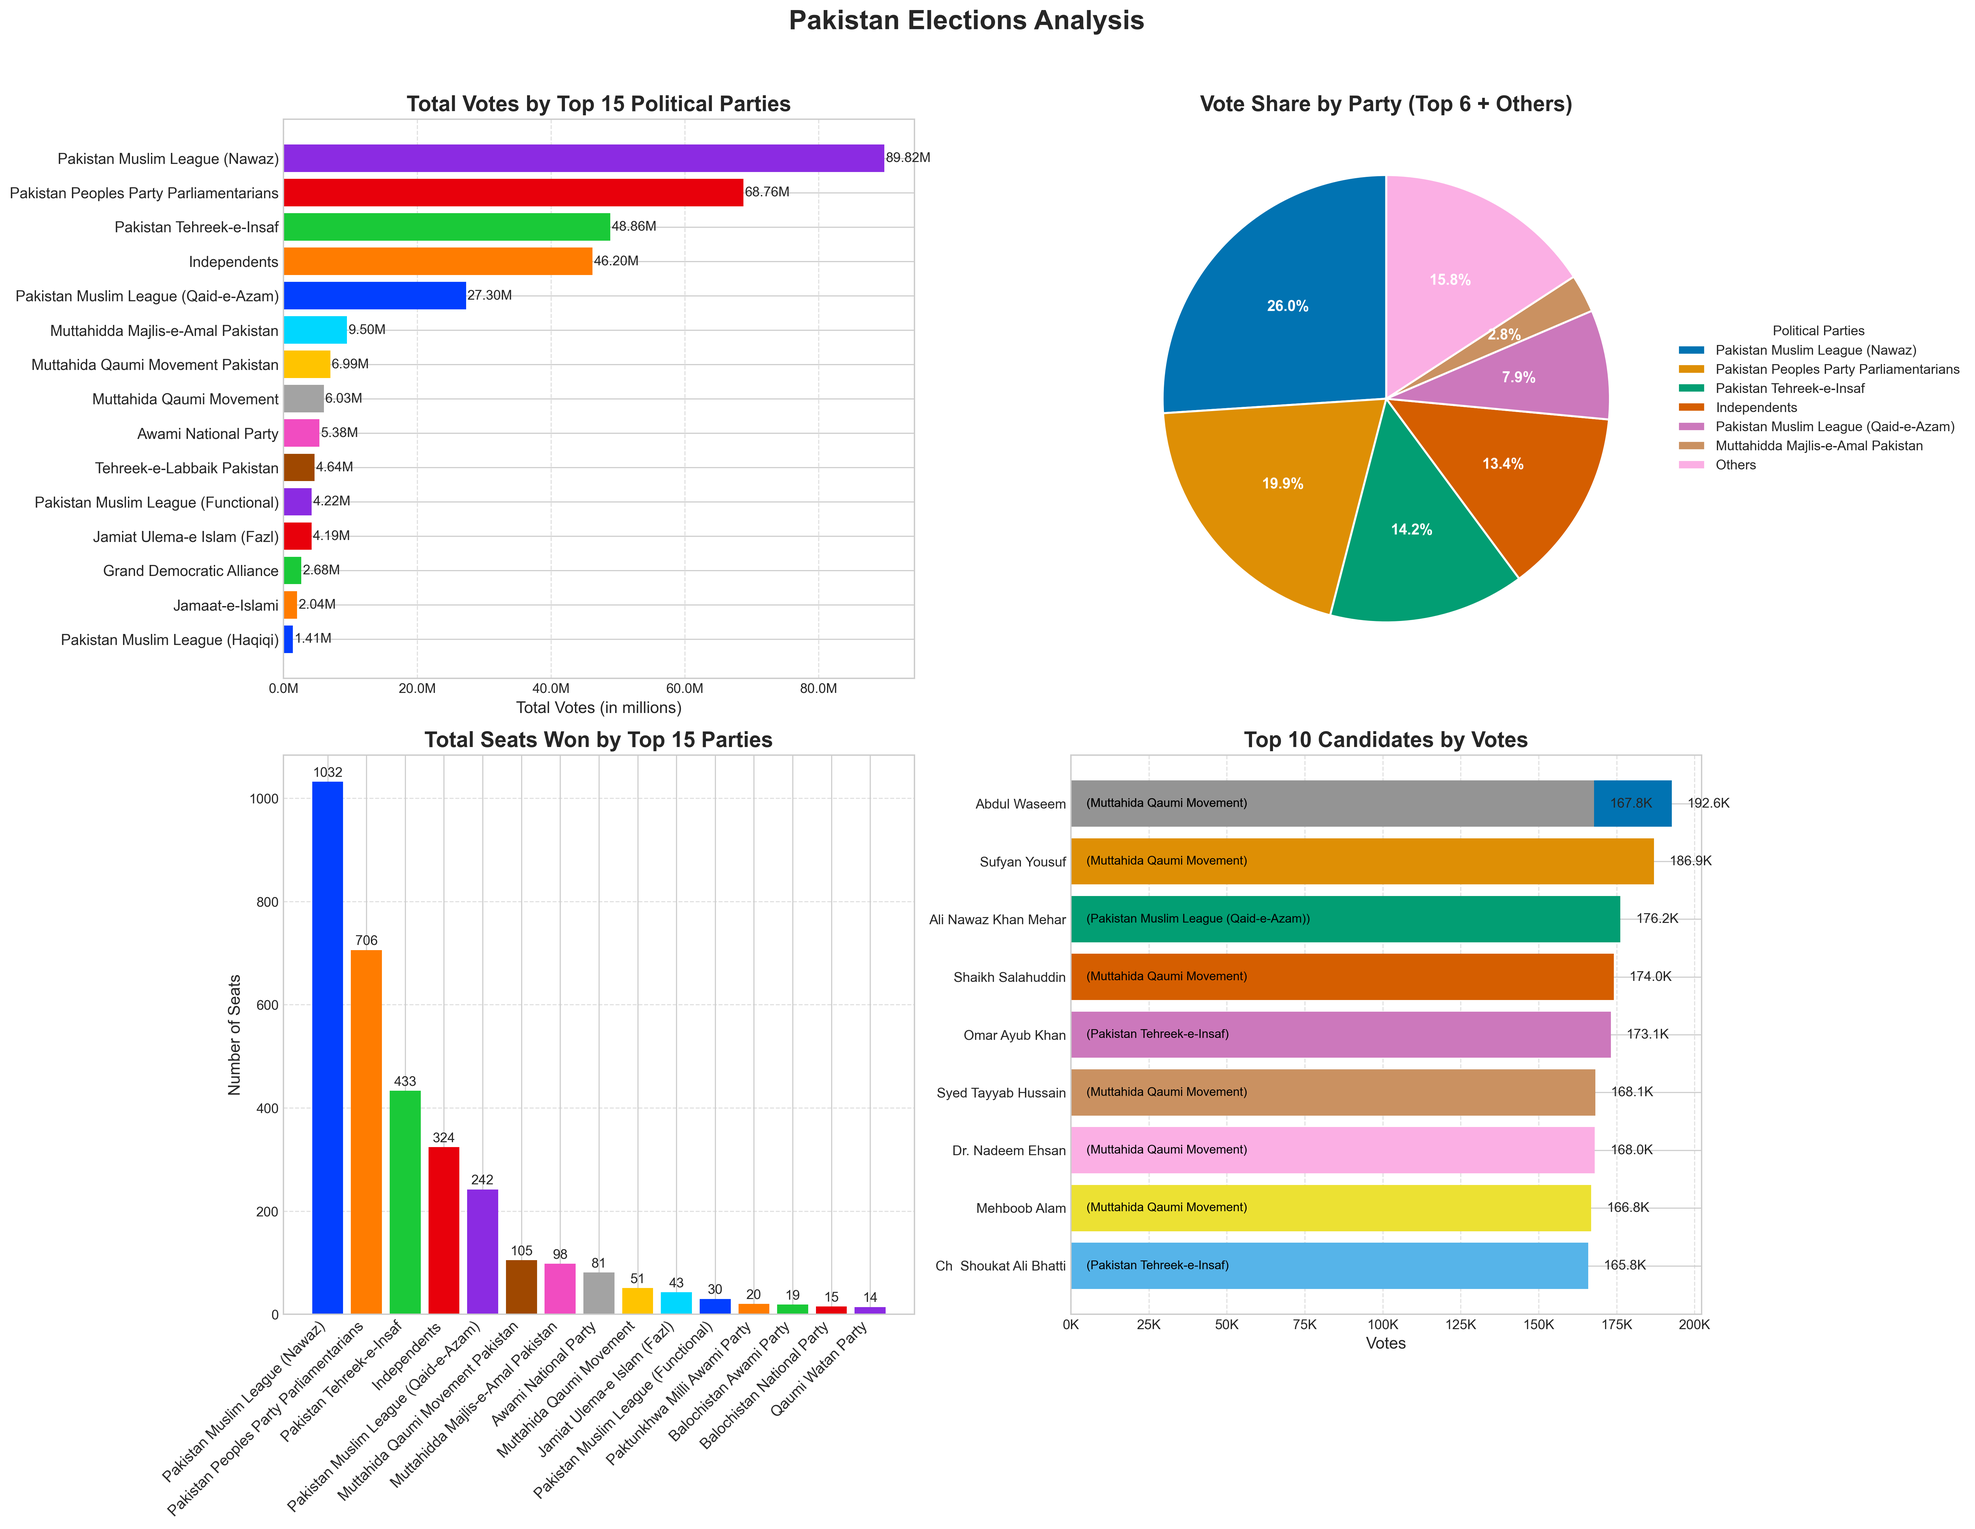
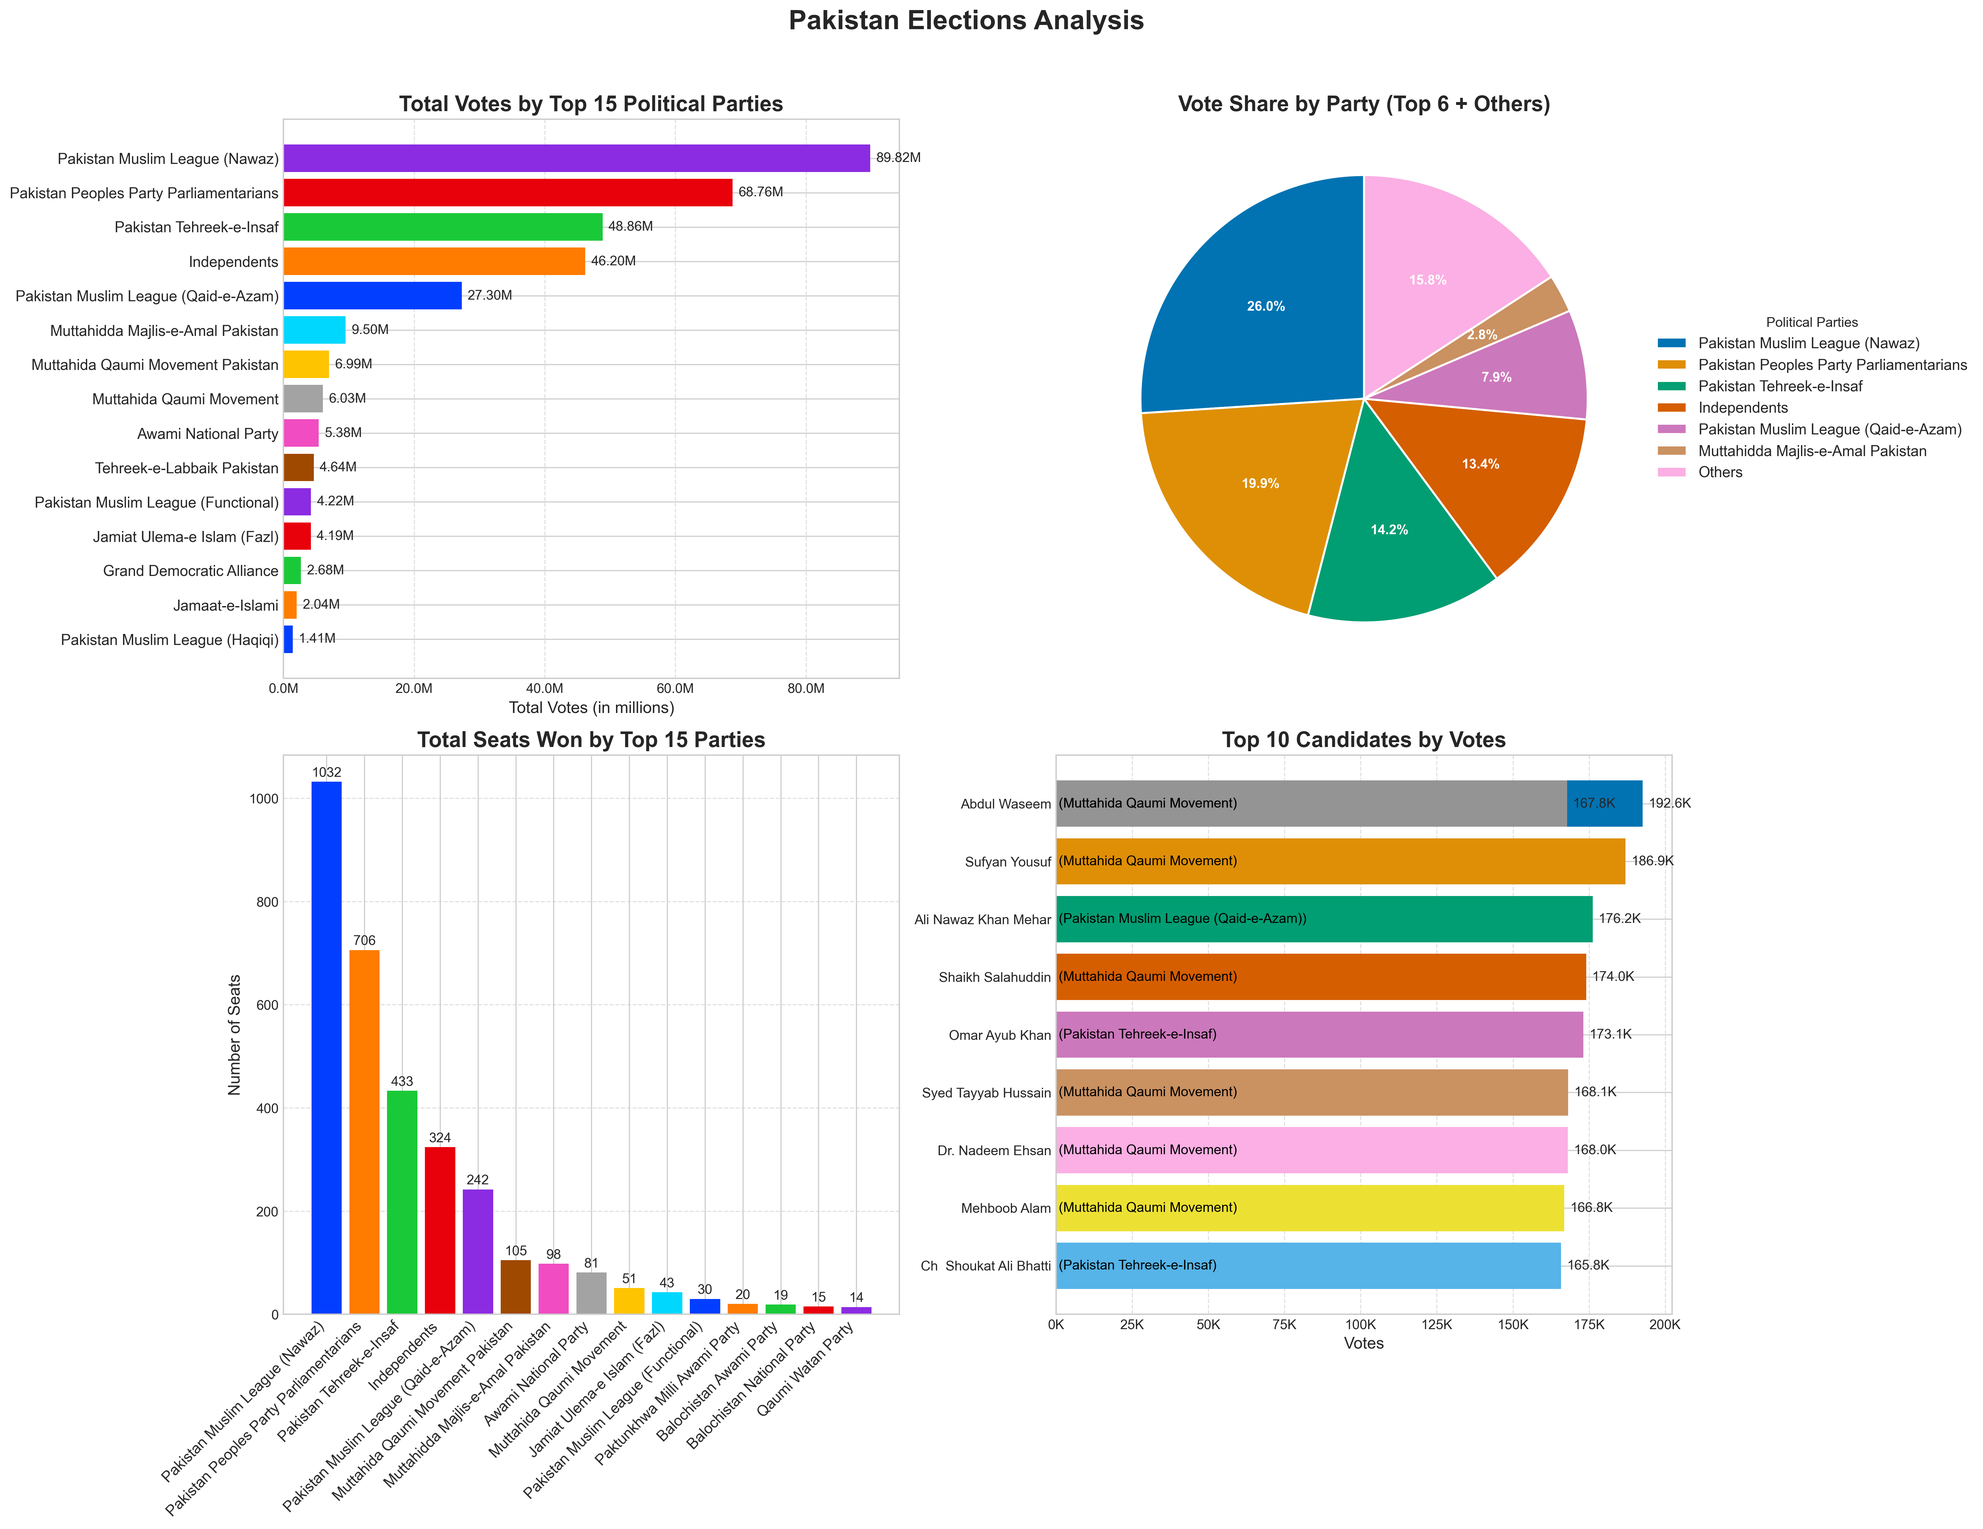
implement best practices

diff --git a/pakistan_election_analysis.py b/pakistan_election_analysis.py
@@ -1,143 +1,197 @@
+# ──────────────────────────────────────────────────────────────────────────────
+# IMPORTS
+# ──────────────────────────────────────────────────────────────────────────────
 import pandas as pd
 import matplotlib.pyplot as plt
 import numpy as np
 import seaborn as sns
+import logging
 
-# Set style for better aesthetics
+# ──────────────────────────────────────────────────────────────────────────────
+# LOGGER CONFIGURATION
+# ──────────────────────────────────────────────────────────────────────────────
+logging.basicConfig(
+    level=logging.INFO,
+    format='%(asctime)s [%(levelname)s] %(message)s',
+    handlers=[
+        logging.FileHandler("election_analysis.log"),
+        logging.StreamHandler()
+    ]
+)
+logger = logging.getLogger(__name__)
+
+# ──────────────────────────────────────────────────────────────────────────────
+# GLOBAL STYLES & CONSTANTS
+# ──────────────────────────────────────────────────────────────────────────────
 plt.style.use('seaborn-v0_8-whitegrid')
 sns.set_palette("colorblind")
 
-# Create a figure with subplots, with more space between them
-fig = plt.figure(figsize=(20, 16))
-plt.subplots_adjust(hspace=0.4, wspace=0.3)
+# Font and style constants
+TITLE_FONT_SIZE = 16
+LABEL_FONT_SIZE = 12
+TICK_FONT_SIZE = 11
+ANNOTATION_FONT_SIZE = 10
+LEGEND_FONT_SIZE = 11
+FIGURE_TITLE_SIZE = 20
+FONT_WEIGHT = 'bold'
 
-# Define a custom color palette for consistency
-colors = sns.color_palette("colorblind", 10)
-colors_extended = sns.color_palette("bright", 15)
+# General constants
+TOP_N_PARTIES = 15
+TOP_N_PIE = 6
+TOP_N_CANDIDATES = 10
 
-# Create the four subplots with specific positions and sizes
-ax1 = plt.subplot2grid((2, 2), (0, 0), fig=fig)  # Top votes bar chart
-ax2 = plt.subplot2grid((2, 2), (0, 1), fig=fig)  # Vote share pie chart
-ax3 = plt.subplot2grid((2, 2), (1, 0), fig=fig)  # Seats won chart
-ax4 = plt.subplot2grid((2, 2), (1, 1), fig=fig)  # Top candidates chart
+# ──────────────────────────────────────────────────────────────────────────────
+# DATA LOADING & CLEANING
+# ──────────────────────────────────────────────────────────────────────────────
+def load_and_clean_data(filepath):
+    try:
+        df = pd.read_csv(filepath)
+        df['candidate_party'] = df['candidate_party'].str.strip()
 
-# Load dataset
-df = pd.read_csv("pakistan_election.csv")
+        required_columns = ['candidate_party', 'candidate_votes', 'candidate_name', 'outcome']
+        initial_count = len(df)
+        df.dropna(subset=required_columns, inplace=True)
+        dropped = initial_count - len(df)
+        if dropped > 0:
+            logger.warning(f"Dropped {dropped} rows due to missing critical values.")
+        return df
 
-# Clean up party names (remove extra spaces)
-df['candidate_party'] = df['candidate_party'].str.strip()
+    except FileNotFoundError:
+        logger.error(f"File '{filepath}' not found.")
+        exit(1)
+    except pd.errors.EmptyDataError:
+        logger.error("File is empty.")
+        exit(1)
+    except pd.errors.ParserError:
+        logger.error("Failed to parse CSV file. Please check its format.")
+        exit(1)
+    except Exception as e:
+        logger.exception(f"An unexpected error occurred: {e}")
+        exit(1)
 
-# Group by total votes per party
-party_votes = df.groupby('candidate_party')['candidate_votes'].sum().sort_values(ascending=False)
+# ──────────────────────────────────────────────────────────────────────────────
+# DATA PROCESSING FUNCTIONS
+# ──────────────────────────────────────────────────────────────────────────────
+def get_party_votes(df):
+    return df.groupby('candidate_party')['candidate_votes'].sum().sort_values(ascending=False)
 
-# Select top N parties
-top_n = 15
-top_party_votes = party_votes.head(top_n)
-
-# Precompute other variables for efficiency
-top_n_pie = 6
-top_parties = party_votes.head(top_n_pie)
-others = party_votes[top_n_pie:].sum()
-pie_data = pd.Series(top_parties.values.tolist() + [others], 
+def get_pie_data(party_votes):
+    top_parties = party_votes.head(TOP_N_PIE)
+    others = party_votes[TOP_N_PIE:].sum()
+    return pd.Series(top_parties.tolist() + [others], 
                      index=top_parties.index.tolist() + ['Others'])
 
-# Get winners and party seats
-winners = df[df['outcome'].str.lower() == 'win']
-party_seats = winners['candidate_party'].value_counts()
+def get_party_seats(df):
+    winners = df[df['outcome'].str.lower() == 'win']
+    return winners['candidate_party'].value_counts()
 
-# Top 10 candidates by votes
-top_candidates = df.sort_values(by='candidate_votes', ascending=False).head(10)
+def get_top_candidates(df):
+    return df.sort_values(by='candidate_votes', ascending=False).head(TOP_N_CANDIDATES)
 
-# 1. Total Votes by Top 15 Political Parties (Horizontal Bar Chart)
-bars = ax1.barh(top_party_votes.index[::-1], top_party_votes.values[::-1], color=colors_extended)
-ax1.set_title('Total Votes by Top 15 Political Parties', fontsize=16, fontweight='bold')
-ax1.set_xlabel('Total Votes (in millions)', fontsize=12)
-ax1.set_yticks(np.arange(len(top_party_votes)))
-ax1.set_yticklabels(top_party_votes.index[::-1], fontsize=11)
-ax1.grid(axis='x', linestyle='--', alpha=0.6)
+# ──────────────────────────────────────────────────────────────────────────────
+# PLOTTING FUNCTIONS
+# ──────────────────────────────────────────────────────────────────────────────
+def plot_total_votes(ax, top_party_votes, colors):
+    bars = ax.barh(top_party_votes.index[::-1], top_party_votes.values[::-1], color=colors)
+    ax.set_title('Total Votes by Top 15 Political Parties', fontsize=TITLE_FONT_SIZE, fontweight=FONT_WEIGHT)
+    ax.set_xlabel('Total Votes (in millions)', fontsize=LABEL_FONT_SIZE)
+    ax.set_yticks(np.arange(len(top_party_votes)))
+    ax.set_yticklabels(top_party_votes.index[::-1], fontsize=TICK_FONT_SIZE)
+    ax.grid(axis='x', linestyle='--', alpha=0.6)
+    ax.xaxis.set_major_formatter(plt.FuncFormatter(lambda x, _: f"{x/1_000_000:.1f}M"))
 
-# Format x-axis to show millions
-ax1.xaxis.set_major_formatter(plt.FuncFormatter(lambda x, loc: f"{x/1000000:.1f}M"))
+    offset = top_party_votes.max() * 0.01
+    for bar in bars:
+        width = bar.get_width()
+        ax.text(width + offset, bar.get_y() + bar.get_height()/2, 
+                f'{width/1_000_000:.2f}M', va='center', fontsize=ANNOTATION_FONT_SIZE)
 
-# Add labels to the bars
-for bar in bars:
-    width = bar.get_width()
-    ax1.text(width + 200000, bar.get_y() + bar.get_height()/2, 
-             f'{width/1000000:.2f}M', va='center', fontsize=10)
+def plot_vote_share_pie(ax, pie_data, colors):
+    wedges, _, autotexts = ax.pie(
+        pie_data,
+        labels=None,
+        autopct='%1.1f%%',
+        startangle=90,
+        colors=colors,
+        wedgeprops={'edgecolor': 'white', 'linewidth': 1.5}
+    )
+    ax.legend(wedges, pie_data.index, title="Political Parties", loc="center left", 
+              bbox_to_anchor=(1, 0, 0.5, 1), fontsize=LEGEND_FONT_SIZE)
+    for autotext in autotexts:
+        autotext.set_color('white')
+        autotext.set_fontsize(ANNOTATION_FONT_SIZE)
+        autotext.set_fontweight(FONT_WEIGHT)
+    ax.set_title('Vote Share by Party (Top 6 + Others)', fontsize=TITLE_FONT_SIZE, fontweight=FONT_WEIGHT)
 
-# 2. Vote Share by Party (Nationwide) - Pie Chart
-wedges, texts, autotexts = ax2.pie(
-    pie_data, 
-    labels=None,
-    autopct='%1.1f%%', 
-    startangle=90, 
-    colors=colors,
-    wedgeprops={'edgecolor': 'white', 'linewidth': 1.5}
-)
+def plot_seats_won(ax, party_seats, colors):
+    top_seats = party_seats.head(TOP_N_PARTIES)
+    bars = ax.bar(np.arange(len(top_seats)), top_seats.values, color=colors)
+    ax.set_title('Total Seats Won by Top 15 Parties', fontsize=TITLE_FONT_SIZE, fontweight=FONT_WEIGHT)
+    ax.set_ylabel('Number of Seats', fontsize=LABEL_FONT_SIZE)
+    ax.set_xticks(np.arange(len(top_seats)))
+    ax.set_xticklabels(top_seats.index, rotation=45, ha='right', fontsize=TICK_FONT_SIZE)
+    ax.grid(axis='y', linestyle='--', alpha=0.6)
 
-# Improve the pie chart legend
-ax2.legend(
-    wedges, 
-    pie_data.index, 
-    title="Political Parties",
-    loc="center left", 
-    bbox_to_anchor=(1, 0, 0.5, 1)
-)
+    for bar in bars:
+        height = bar.get_height()
+        ax.text(bar.get_x() + bar.get_width()/2., height + 5,
+                f'{height:.0f}', ha='center', va='bottom', fontsize=ANNOTATION_FONT_SIZE)
 
-# Set properties for the percentage labels
-for autotext in autotexts:
-    autotext.set_color('white')
-    autotext.set_fontsize(11)
-    autotext.set_fontweight('bold')
+def plot_top_candidates(ax, top_candidates, colors):
+    bars = ax.barh(top_candidates['candidate_name'], top_candidates['candidate_votes'], color=colors)
+    ax.set_xlabel('Votes', fontsize=LABEL_FONT_SIZE)
+    ax.set_title('Top 10 Candidates by Votes', fontsize=TITLE_FONT_SIZE, fontweight=FONT_WEIGHT)
+    ax.invert_yaxis()
+    ax.grid(axis='x', linestyle='--', alpha=0.6)
+    ax.xaxis.set_major_formatter(plt.FuncFormatter(lambda x, _: f"{x/1_000:.0f}K"))
 
-ax2.set_title('Vote Share by Party (Top 6 + Others)', fontsize=16, fontweight='bold')
+    offset = top_candidates['candidate_votes'].max() * 0.01
+    label_offset = top_candidates['candidate_votes'].min() * 0.005
 
-# 3. Total Seats Won by Party
-# Get top 15 parties by seats for better visualization
-top_seats = party_seats.head(15)
-bars = ax3.bar(np.arange(len(top_seats)), top_seats.values, color=colors_extended)
-ax3.set_title('Total Seats Won by Top 15 Parties', fontsize=16, fontweight='bold')
-ax3.set_ylabel('Number of Seats', fontsize=12)
-ax3.set_xticks(np.arange(len(top_seats)))
-ax3.set_xticklabels(top_seats.index, rotation=45, ha='right', fontsize=11)
-ax3.grid(axis='y', linestyle='--', alpha=0.6)
+    for bar in bars:
+        width = bar.get_width()
+        ax.text(width + offset, bar.get_y() + bar.get_height()/2, 
+                f'{width/1_000:.1f}K', va='center', fontsize=ANNOTATION_FONT_SIZE)
 
-# Add value labels on top of each bar
-for bar in bars:
-    height = bar.get_height()
-    ax3.text(bar.get_x() + bar.get_width()/2., height + 5,
-             f'{height:.0f}', ha='center', va='bottom', fontsize=10)
+    for i, candidate in enumerate(top_candidates['candidate_name']):
+        party = top_candidates.iloc[i]['candidate_party']
+        ax.text(label_offset, bars[i].get_y() + bars[i].get_height()/2, 
+                f"({party})", va='center', ha='left', fontsize=ANNOTATION_FONT_SIZE, color='black')
 
-# 4. Top 10 Candidates by Votes (Horizontal Bar Chart)
-bars = ax4.barh(top_candidates['candidate_name'], top_candidates['candidate_votes'], color=colors[0:10])
-ax4.set_xlabel('Votes', fontsize=12)
-ax4.set_title('Top 10 Candidates by Votes', fontsize=16, fontweight='bold')
-ax4.invert_yaxis()  # Highest on top
-ax4.grid(axis='x', linestyle='--', alpha=0.6)
+# ──────────────────────────────────────────────────────────────────────────────
+# MAIN FUNCTION
+# ──────────────────────────────────────────────────────────────────────────────
+def main():
+    df = load_and_clean_data("pakistan_election.csv")
 
-# Format the x-axis to show thousands
-ax4.xaxis.set_major_formatter(plt.FuncFormatter(lambda x, loc: f"{x/1000:.0f}K"))
+    party_votes = get_party_votes(df)
+    pie_data = get_pie_data(party_votes)
+    party_seats = get_party_seats(df)
+    top_candidates = get_top_candidates(df)
 
-# Add labels to the bars
-for bar in bars:
-    width = bar.get_width()
-    ax4.text(width + 5000, bar.get_y() + bar.get_height()/2, 
-             f'{width/1000:.1f}K', va='center', fontsize=10)
+    colors = sns.color_palette("colorblind", 10)
+    colors_extended = sns.color_palette("bright", 15)
 
-# Add a note about the party abbreviation for each candidate
-for i, candidate in enumerate(top_candidates['candidate_name']):
-    party = top_candidates.iloc[i]['candidate_party']
-    ax4.text(5000, bars[i].get_y() + bars[i].get_height()/2, 
-             f"({party})", va='center', ha='left', fontsize=9, color='black')
+    fig = plt.figure(figsize=(20, 16))
+    plt.subplots_adjust(hspace=0.4, wspace=0.3)
 
-# Add an overall title for the entire figure
-plt.suptitle('Pakistan Elections Analysis', fontsize=20, fontweight='bold', y=0.98)
+    ax1 = plt.subplot2grid((2, 2), (0, 0), fig=fig)
+    ax2 = plt.subplot2grid((2, 2), (0, 1), fig=fig)
+    ax3 = plt.subplot2grid((2, 2), (1, 0), fig=fig)
+    ax4 = plt.subplot2grid((2, 2), (1, 1), fig=fig)
 
-# Adjust layout
-plt.tight_layout(rect=[0, 0, 1, 0.96])
+    plot_total_votes(ax1, party_votes.head(TOP_N_PARTIES), colors_extended)
+    plot_vote_share_pie(ax2, pie_data, colors)
+    plot_seats_won(ax3, party_seats, colors_extended)
+    plot_top_candidates(ax4, top_candidates, colors)
 
-# Save the figure with high resolution
-plt.savefig('election_analysis.png', dpi=300, bbox_inches='tight')
+    plt.suptitle('Pakistan Elections Analysis', fontsize=FIGURE_TITLE_SIZE, fontweight=FONT_WEIGHT, y=0.98)
+    plt.tight_layout(rect=[0, 0, 1, 0.96])
+    plt.savefig('election_analysis.png', dpi=300, bbox_inches='tight')
+    plt.show()
 
-# Show the plot
-plt.show()
+# ──────────────────────────────────────────────────────────────────────────────
+# ENTRY POINT
+# ──────────────────────────────────────────────────────────────────────────────
+if __name__ == "__main__":
+    main()
